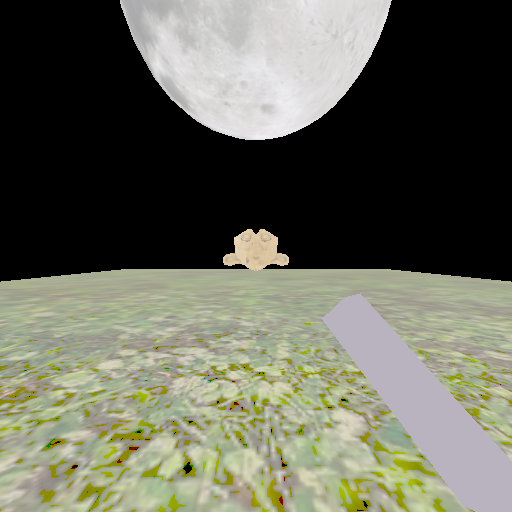
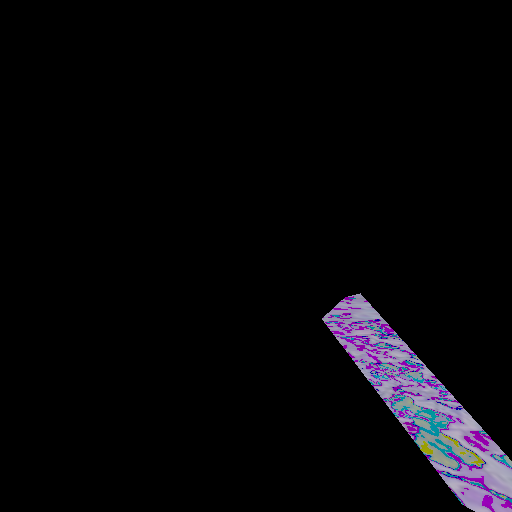
Finished Entity Req 8. Tested Successfully.

diff --git a/source/common/ecs/world.cpp b/source/common/ecs/world.cpp
@@ -13,15 +13,19 @@ namespace our
         for (const auto &entityData : data)
         {
             // TODO: (Req 8) Create an entity, make its parent "parent" and call its deserialize with "entityData".
-            Entity *nentity = new Entity();   // create new entity
-            nentity->parent = parent;         // set its parent to "parent"
-            nentity->deserialize(entityData); // deserialize it with "entityData"
+            Entity *nentity = add();            // create new entity
+            nentity->parent = parent;           // set its parent to "parent"
+            nentity->deserialize(entityData);   // deserialize it with "entityData"
+            
 
             if (entityData.contains("children"))
             {
                 // TODO: (Req 8) Recursively call this world's "deserialize" using the children data
                 //  and the current entity as the parent
-                World::deserialize(entityData, nentity);
+                // World::deserialize(entityData, nentity);
+
+                deserialize(entityData, nentity);
+
             }
         }
     }

diff --git a/source/common/components/camera.cpp b/source/common/components/camera.cpp
@@ -63,9 +63,9 @@ namespace our
         //  It takes left, right, bottom, top. Bottom is -orthoHeight/2 and Top is orthoHeight/2.
         //  Left and Right are the same but after being multiplied by the aspect ratio
         //  For the perspective camera, you can use glm::perspective
-        float aspect_ratio = (float)viewportSize.x / viewportSize.y;
-        float left = -aspect_ratio * orthoHeight / 2.0f;
-        float right = aspect_ratio * orthoHeight / 2.0f;
+        float aspect_ratio = viewportSize.x / float(viewportSize.y);
+        float left = -aspect_ratio * (orthoHeight / 2.0f);
+        float right = aspect_ratio * (orthoHeight / 2.0f);
         float bottom = -orthoHeight / 2.0f;
         float top = orthoHeight / 2.0f;
 
@@ -75,7 +75,7 @@ namespace our
         }
         else if (cameraType == CameraType::ORTHOGRAPHIC)
         {
-            return glm::ortho(left, right, bottom, top, near, far);
+            return glm::ortho(left, right, bottom, top);
         }
         return glm::mat4(1.0f);
     }

diff --git a/source/common/components/mesh-renderer.cpp b/source/common/components/mesh-renderer.cpp
@@ -17,12 +17,12 @@ namespace our
         // Look at "source/common/asset-loader.hpp" to know how to use the static class AssetLoader.
 
 
-        std::cout << "\nMesh Name: " << data["mesh"].get<std::string>() << std::endl;
-        std::cout << "Material Name: " << data["material"].get<std::string>() << std::endl;
+        // std::cout << "\nMesh Name: " << data["mesh"].get<std::string>() << std::endl;
+        // std::cout << "Material Name: " << data["material"].get<std::string>() << std::endl;
         // std::cout << "\nMesh Name: " << data.value("mesh", "")<< std::endl;
 
         mesh = AssetLoader<Mesh>::get(data["mesh"].get<std::string>());
-        material = AssetLoader<TexturedMaterial>::get(data["material"].get<std::string>());
+        material = AssetLoader<Material>::get(data["material"].get<std::string>());
 
         // if (mesh)
         //     std::cout << "Mesh: " << mesh << std::endl;

diff --git a/source/common/ecs/entity.hpp b/source/common/ecs/entity.hpp
@@ -39,7 +39,7 @@ namespace our
             // TODO: (Req 8) Create an component of type T, set its "owner" to be this entity, then push it into the component's list
             T *newcomponent = new T();          // create new component of type T
             newcomponent->owner = this;         // set its oowner to this entity
-            components.push_back(newcomponent); // add it to this entity components list
+            this->components.push_back(newcomponent); // add it to this entity components list
             return newcomponent;                // return the new component
         }
 
@@ -130,6 +130,7 @@ namespace our
             {
                 delete *it; // delete the component
             }
+            components.clear();
         }
 
         // Entities should not be copyable
